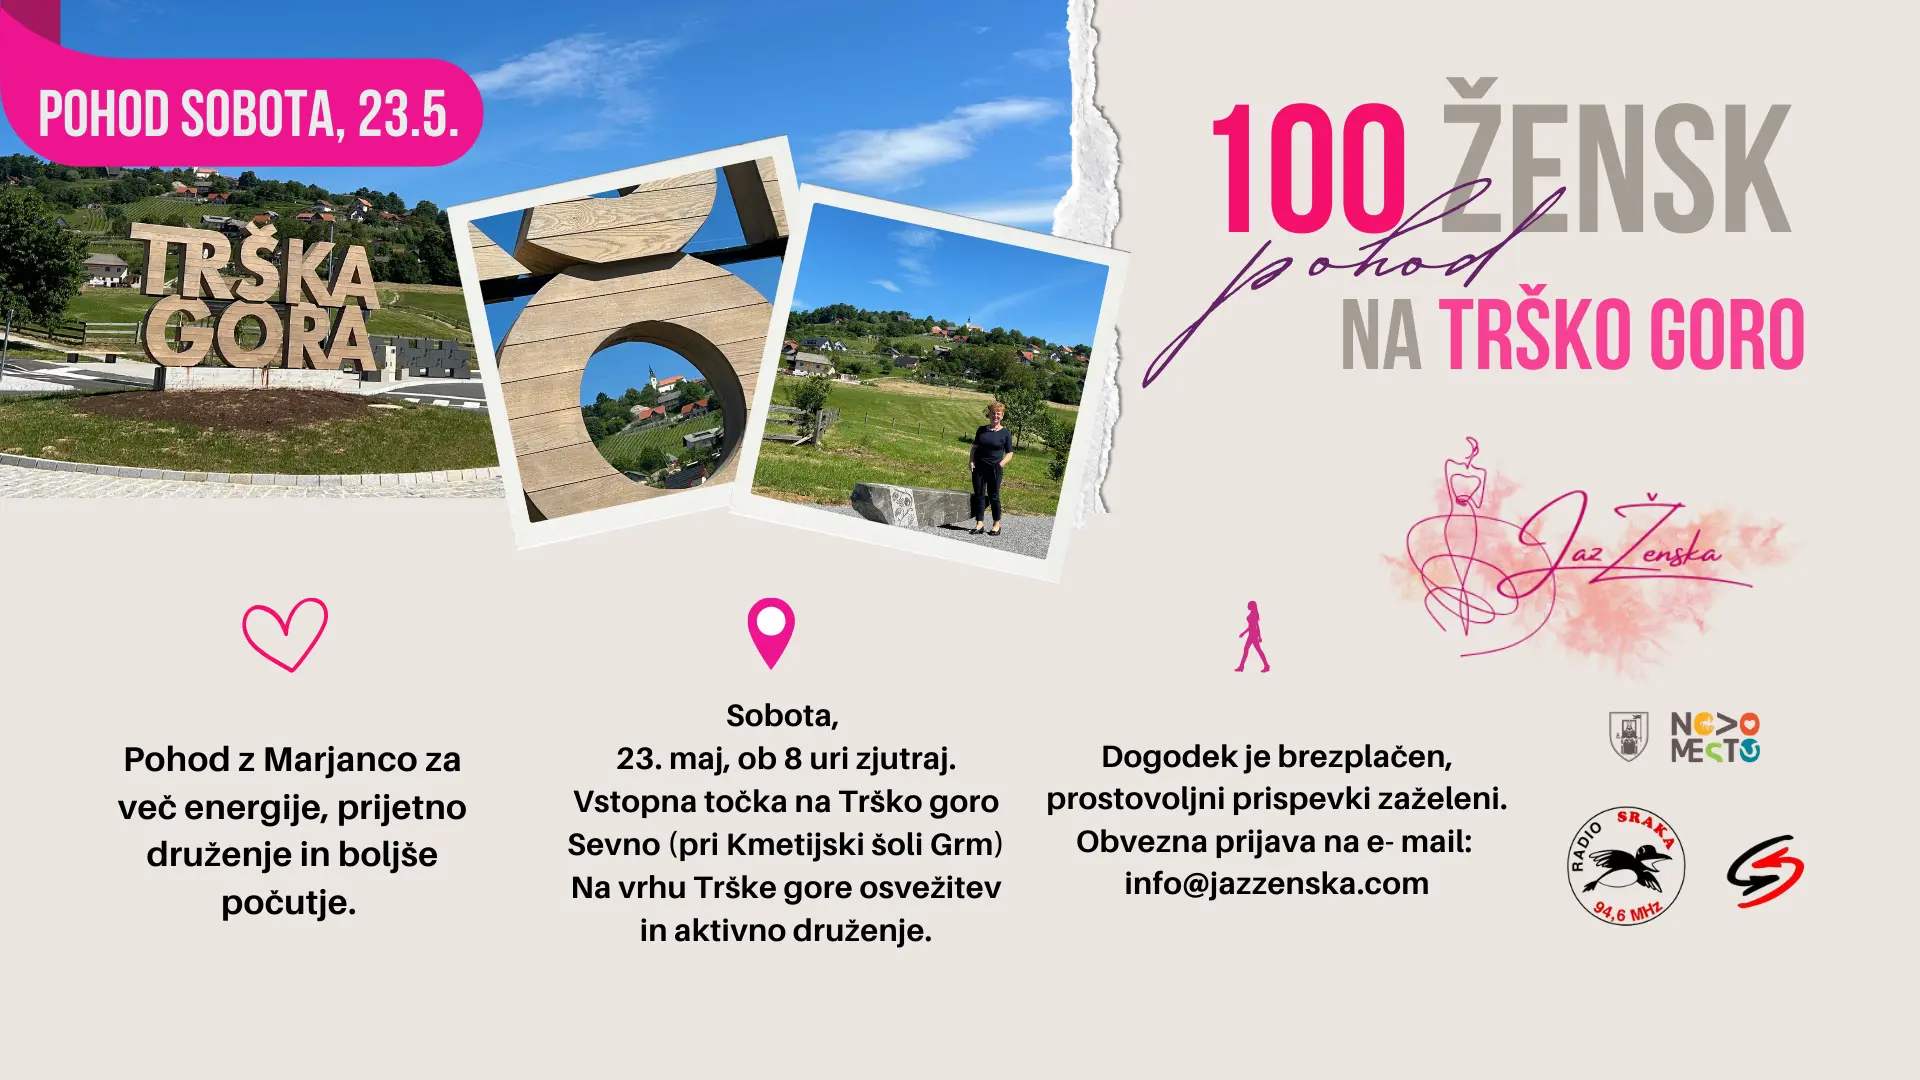
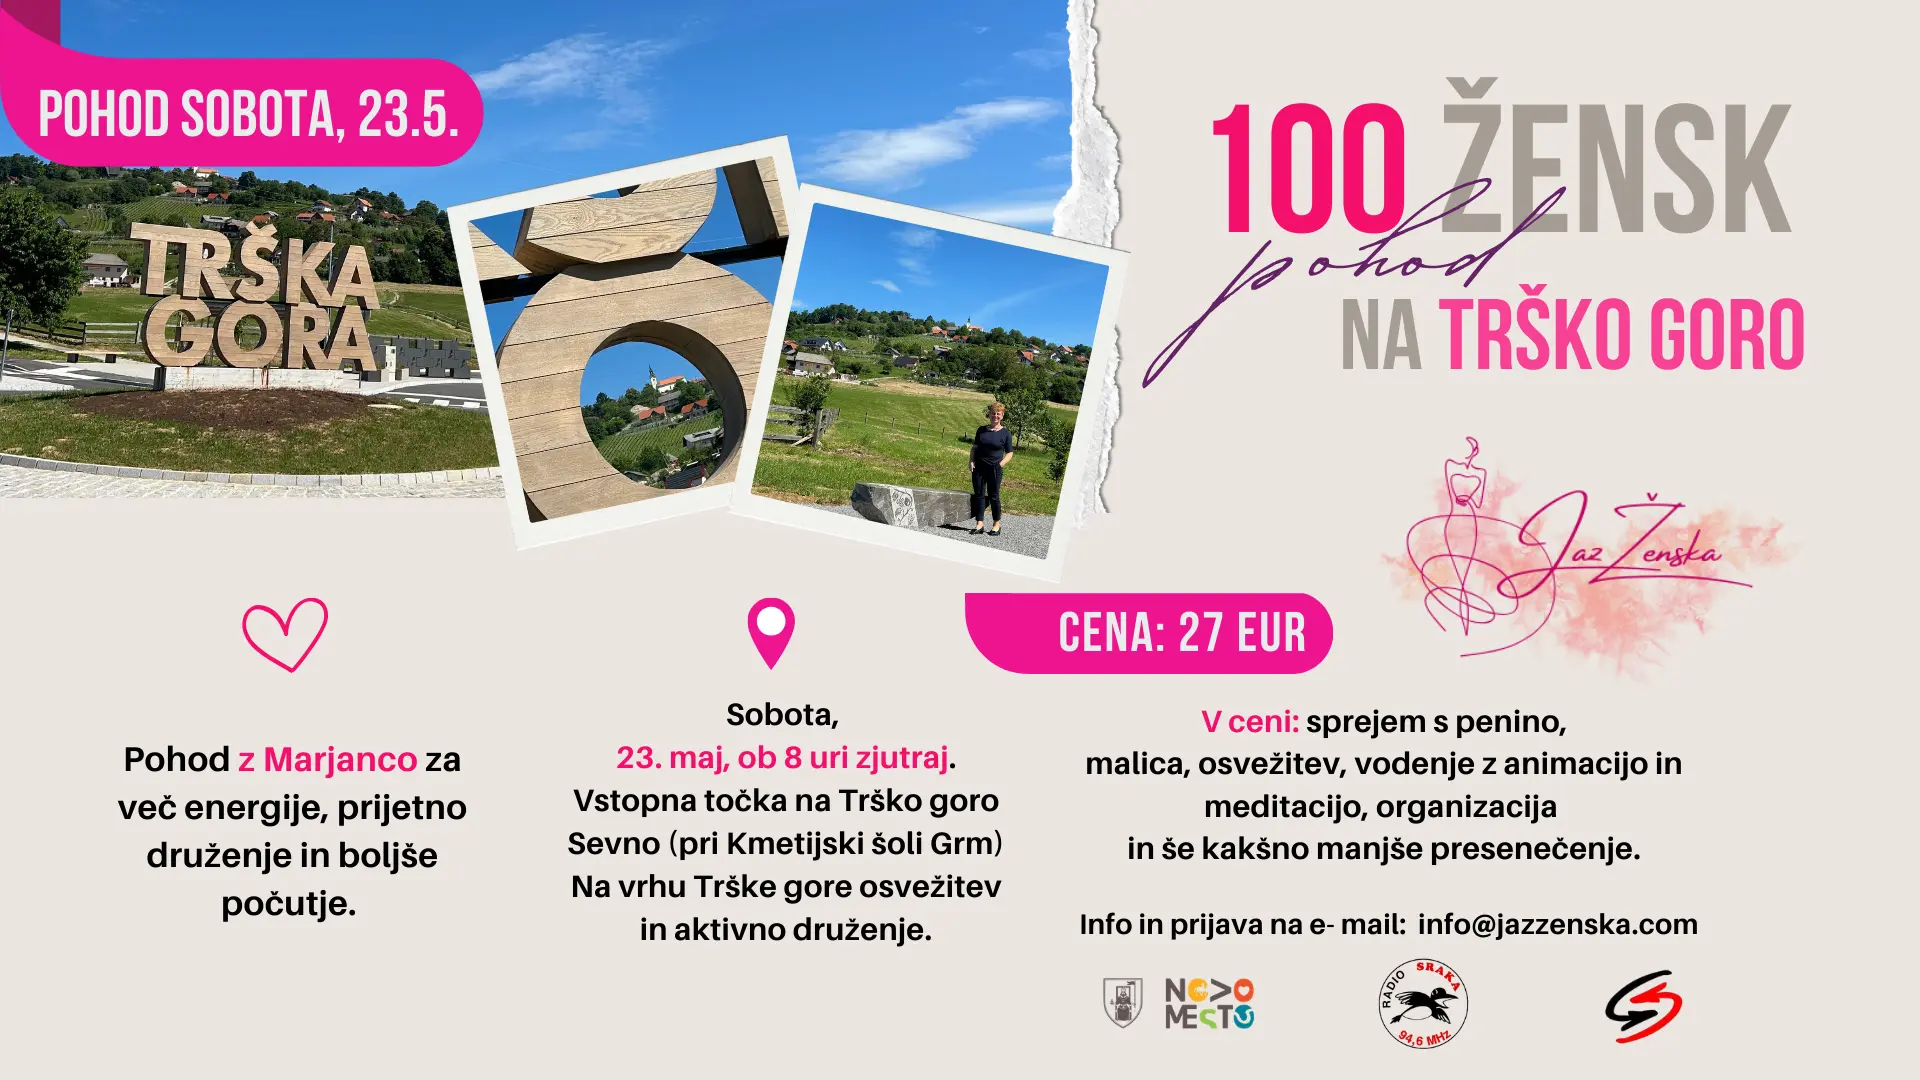
change text a bit

diff --git a/pohod.html b/pohod.html
@@ -221,8 +221,9 @@
                 <p>Ob 8 uri zjutraj se bomo zbrali ob vznožju Trške gore v kraju Sevno, kjer se ob Centru biotehnike in turizma Grm Novo mesto nahaja vstopna točka z urejenimi parkirnimi prostori. Za začetek nas bo pot peljala mimo zidanice, kjer je ustvarjal skladatelj Marjan Kozina. Tam bo naš prvi postanek in prvo, prav prijetno presenečenje.</p>
                 <p>Nadaljevanje poti do zidanice Teropšič, kje nam bodo pripravili dobrodošlico in malico. Po kratkem počitku in uživanju v prekrasnih pogledih in razgledih na dolino reke Krke in zelene Gorjance, pa se bomo podale na vrh Trške gore. V senci mogočnih lip se bomo najprej osvežile, nato pa se zazrle vase in začutile neverjetno moč narave in se prepustile vodeni meditaciji ob žvrgolenju ptic.</p>
                 <p>Spust v dolino bo lahkoten, ob prijetnem druženju in klepetu, zaključile pa bomo s pozdravom novih prijateljic in obljubo, da pridemo ponovno naslednje leto.</p>
+                <p>Naj te opozorim, da bomo na pohod sprejeli res samo 100 žensk, da bo vsaka ob prijavi prejela svojo vstopnico, ki pa bo hkrati tudi srečka in mogoče boš ravno ti dobila kakšno od lepih nagrad. Kot lani, bo tudi letos glavna nagrada križarjenje po Jadranu na luksuzni ladji 5* in še tri lepe nagrade.</p>
                 <div class="cta-section">
-                    <a href="pohod-checkout.html" class="cta-button">Zagotovi si mesto</a>
+                    <a href="pohod-checkout.html" class="cta-button">Prijavi se in se nam pridruži</a>
                 </div>
             </div>
         </div>
@@ -232,15 +233,14 @@
     <section class="webinar-section webinar-benefits-section" id="pohod-prijava">
         <div class="webinar-container">
             <div class="section-content">
-                <p>Naj te opozorim, da bomo na pohod sprejeli res samo 100 žensk, da bo vsaka ob prijavi prejela svojo vstopnico, ki pa bo hkrati tudi srečka in mogoče boš ravno ti dobila kakšno od lepih nagrad. Kot lani, bo tudi letos glavna nagrada križarjenje po Jadranu na luksuzni ladji 5* in še tri lepe nagrade.</p>
-                <p><strong>Prijavi se in se nam pridruži.</strong></p>
-                <p>Udeležba stane 27 €. Z nakupom vstopnice si zagotoviš mesto in prejmeš svojo številko udeleženke ter potrdilo na email.</p>
+                
+                <p>Cena 27.00 EUR vključuje: sprejem s penino, malica, osvežitev, vodenje z animacijo in meditacijo, organizacija in še kakšno manjše presenečenje. Z nakupom vstopnice si zagotoviš mesto in prejmeš svojo številko udeleženke ter potrdilo na email.</p>
                 <p>Pohod je primeren za vse, ki lahko hodite po blagih strminah, dolg je malo manj kot 7 km in za samo hojo bomo porabile okoli 2 uri. Z vmesnimi postanki, druženjem, malico in meditacijo bo trajal okoli 5 ur, tako da se bomo na izhodiščno točko vrnile nekje med 13 in 14 uro.</p>
                 <p>Pohod bo vodila Marjanca Trščinar Antić, ustanoviteljica skupnosti Jaz ženska, življenjska učiteljica, hipnoterapevtka in vodnica z dolgoletnimi izkušnjami. Več si lahko pogledaš na <a href="https://www.jazzenska.com">www.jazzenska.com</a>.</p>
-                <p>Ne odlašaj – za udeležbo plačaj 27 € in si zagotovi mesto. Na strani za plačilo vnesete podatke in preko Stripe varno poravnate. Po plačilu boste prejeli email s svojo številko udeleženke.</p>
+                <p>Ne odlašaj, prijavi se takoj in si zagotovi udeležbo na enkratnem pohodu 100 žensk na Trško Goro.</p>
                 <p>Če pa imaš še kakšna dodatna vprašanja, prosim piši na: <a href="mailto:info@jazenska.com">info@jazenska.com</a></p>
                 <div class="cta-section">
-                    <a href="pohod-checkout.html" class="cta-button">Nadaljuj na plačilo (27 €)</a>
+                    <a href="pohod-checkout.html" class="cta-button">Zagotovi si mesto</a>
                 </div>
             </div>
         </div>
